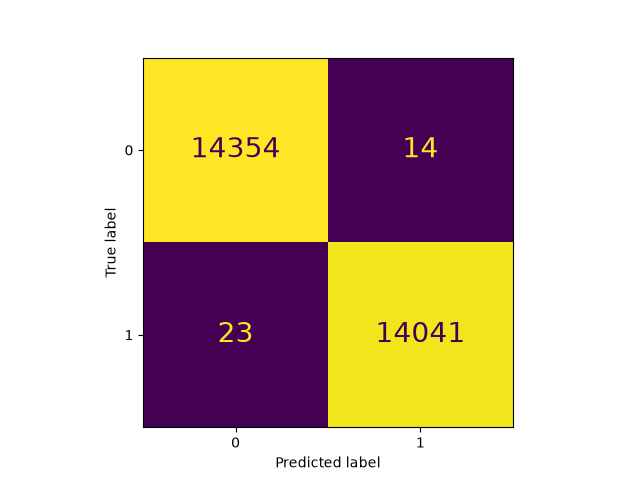
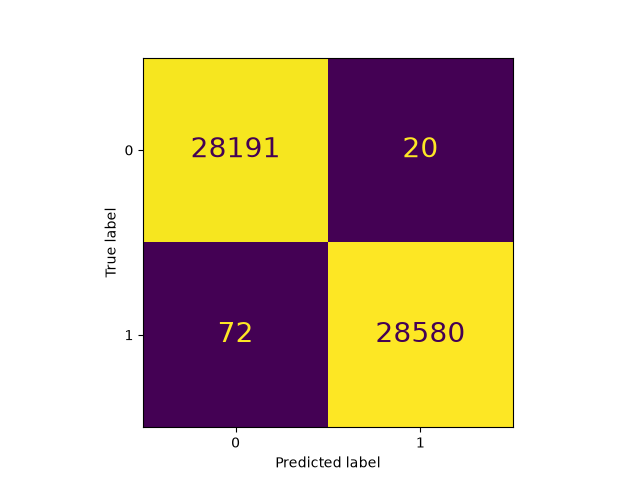
change traning/test data ratio to 80/10/10

diff --git a/app/datavisual.py b/app/datavisual.py
@@ -29,7 +29,7 @@ def histograms(engine: Engine, bins: np.uint32 | None):
     handles, labels = axes[0].get_legend_handles_labels()
     fig.legend(handles, labels, loc=(0.79,0.08), fontsize=14, markerscale=3)
     plt.subplots_adjust(wspace=0.1, hspace=0.3)
-    plt.savefig("plots/histograms.png", bbox_inches="tight")
+    plt.savefig("results/histograms.png", bbox_inches="tight")
 
 
 def qqplots(engine: Engine):
@@ -67,7 +67,7 @@ def qqplots(engine: Engine):
     fig.legend(handles=[ax.get_lines()[0], ax.get_lines()[1]],
             labels=['not fraudulent', 'fraudulent'], loc=(0.75,0.08), fontsize=14, markerscale=3)
     plt.subplots_adjust(wspace=0.1, hspace=0.3)
-    plt.savefig("plots/QQplots.png", bbox_inches="tight")
+    plt.savefig("results/QQplots.png", bbox_inches="tight")
 
 
 def scatterplot_matrix(engine: Engine):
@@ -92,4 +92,4 @@ def scatterplot_matrix(engine: Engine):
             ax.set_yticks([])
 
     plt.subplots_adjust(wspace=0.05, hspace=0.05)
-    plt.savefig("plots/scatterplots.png", bbox_inches="tight")
+    plt.savefig("results/scatterplots.png", bbox_inches="tight")

diff --git a/app/datainit.py b/app/datainit.py
@@ -50,7 +50,7 @@ def initialize_data(seed: np.int32 | None):
         UPDATE fraud_data
         SET split = 'TRAIN'
         ORDER BY RAND({seed if seed is not None else ''})
-        LIMIT {int(table_size*0.9)}
+        LIMIT {int(table_size*0.8)}
         ;""")          
 
     cursor.execute(f"""
@@ -58,7 +58,7 @@ def initialize_data(seed: np.int32 | None):
         SET split = 'VALIDATE'
         WHERE split IS NULL
         ORDER BY RAND({seed if seed is not None else ''})
-        LIMIT {int(table_size*0.05)}
+        LIMIT {int(table_size*0.1)}
         ;""")
 
     cursor.execute("""
